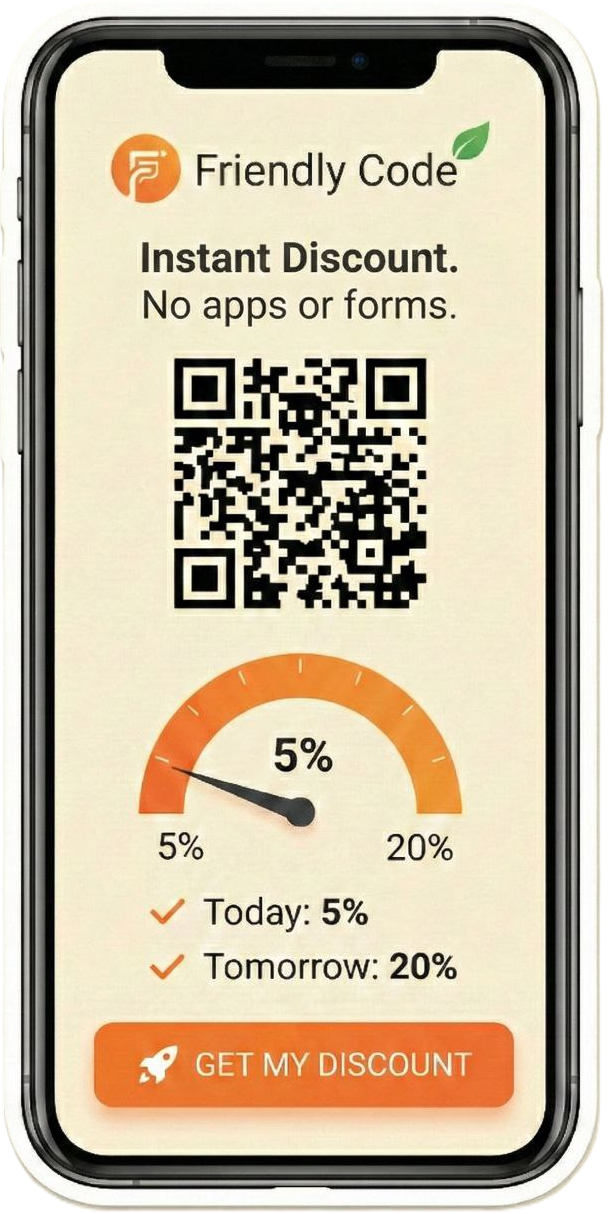
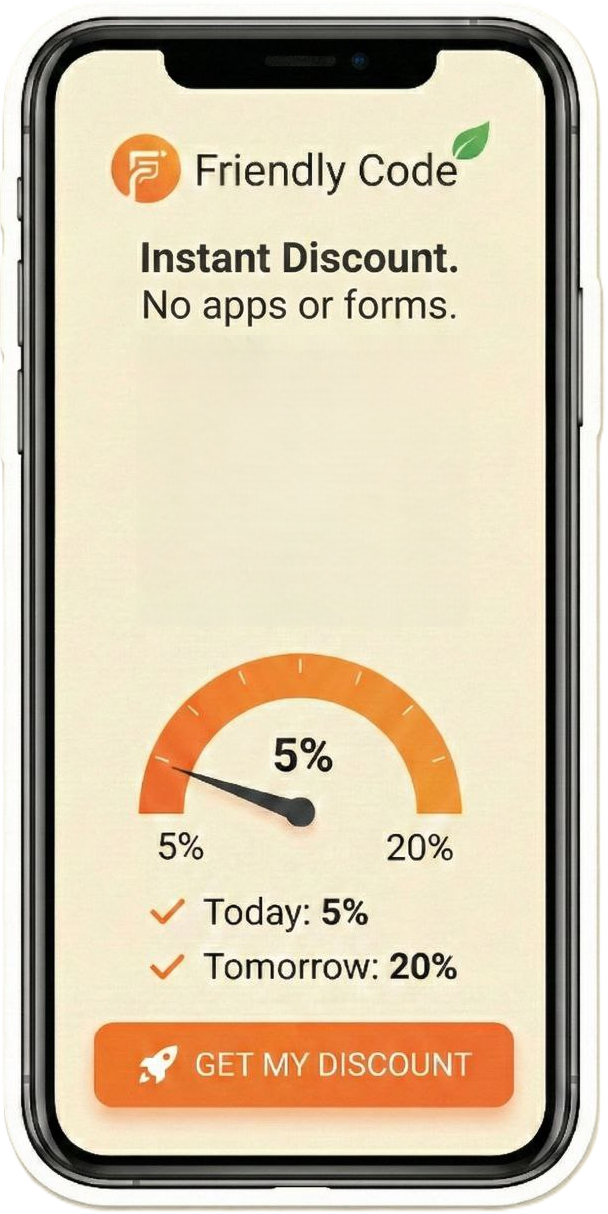
Update POS sticker QR position/size and sync background images

Changed region(s): [[0.2812, 0.2743, 0.7188, 0.5181]]

diff --git a/admin/lib/features/owner/presentation/screens/pos_sticker_screen.dart b/admin/lib/features/owner/presentation/screens/pos_sticker_screen.dart
@@ -18,6 +18,7 @@ class PosStickerScreen extends StatefulWidget {
 class _PosStickerScreenState extends State<PosStickerScreen> {
   final GlobalKey _globalKey = GlobalKey();
   bool _isSaving = false;
+  bool _useVenueQr = false; // Toggle state
 
   Future<void> _captureAndSave() async {
     setState(() => _isSaving = true);
@@ -29,9 +30,10 @@ class _PosStickerScreenState extends State<PosStickerScreen> {
       final byteData = await image.toByteData(format: ui.ImageByteFormat.png);
       if (byteData != null) {
         final buffer = byteData.buffer.asUint8List();
-        // Determine filename suffix based on locale
+        // Determine filename suffix based on locale and QR type
         final locale = Localizations.localeOf(context).languageCode;
-        await FileDownloader.downloadFile(buffer, "friendly_code_pos_${widget.venue.id}_$locale.png");
+        final qrType = _useVenueQr ? "venue" : "landing";
+        await FileDownloader.downloadFile(buffer, "friendly_code_pos_${widget.venue.id}_${locale}_$qrType.png");
         if (mounted) ScaffoldMessenger.of(context).showSnackBar(const SnackBar(content: Text("Sticker downloaded!")));
       }
     } catch (e) {
@@ -66,6 +68,25 @@ class _PosStickerScreenState extends State<PosStickerScreen> {
                 l10n.posStickerSub, 
                 style: const TextStyle(color: AppColors.body, fontSize: 16),
               ),
+              const SizedBox(height: 16),
+              
+              // QR Toggle Switch
+              Container(
+                width: 350,
+                decoration: BoxDecoration(
+                  color: Colors.white,
+                  borderRadius: BorderRadius.circular(12),
+                  boxShadow: const [BoxShadow(color: Colors.black12, blurRadius: 8, offset: Offset(0, 2))],
+                ),
+                child: SwitchListTile(
+                  title: const Text("Use Venue Specific QR", style: TextStyle(fontWeight: FontWeight.w600)),
+                  subtitle: Text(_useVenueQr ? "Scans to this venue" : "Scans to Landing Page"),
+                  value: _useVenueQr,
+                  activeColor: AppColors.premiumBurntOrange,
+                  onChanged: (val) => setState(() => _useVenueQr = val),
+                ),
+              ),
+
               const SizedBox(height: 24),
               // The Sticker Widget to Capture
               RepaintBoundary(
@@ -102,6 +123,11 @@ class _PosStickerScreenState extends State<PosStickerScreen> {
     final imageAsset = locale == 'ru' 
         ? 'assets/images/pos_sticker_ru.png' 
         : 'assets/images/pos_sticker_en.png';
+    
+    // Determine QR Data
+    final qrData = _useVenueQr 
+        ? 'https://www.friendlycode.fun/qr?id=${widget.venue.id}'
+        : 'https://www.friendlycode.fun';
 
     return Container(
       width: width,
@@ -135,22 +161,19 @@ class _PosStickerScreenState extends State<PosStickerScreen> {
               ),
             ),
 
-            // 2. Static QR Code Overlay
-            // Pointing to friendlycode.fun for everyone
+            // 2. Dynamic QR Code Overlay
             Positioned(
-              top: 220, 
-              left: 75, 
+              top: 190, // Raised by 30px (from 220)
+              left: 85, // Adjusted to center (350 - 180)/2
               child: QrImageView(
-                data: 'https://www.friendlycode.fun',
+                data: qrData,
                 version: QrVersions.auto,
-                size: 200.0,
-                backgroundColor: Colors.transparent, // Assuming image has white bg in QR area
+                size: 180.0, // 10% smaller (from 200)
+                backgroundColor: Colors.transparent,
                 foregroundColor: Colors.black,
                 padding: EdgeInsets.zero,
               ),
             ),
-
-            // Previously dynamic text overlays are removed as they are now part of the image
           ],
         ),
       ),
